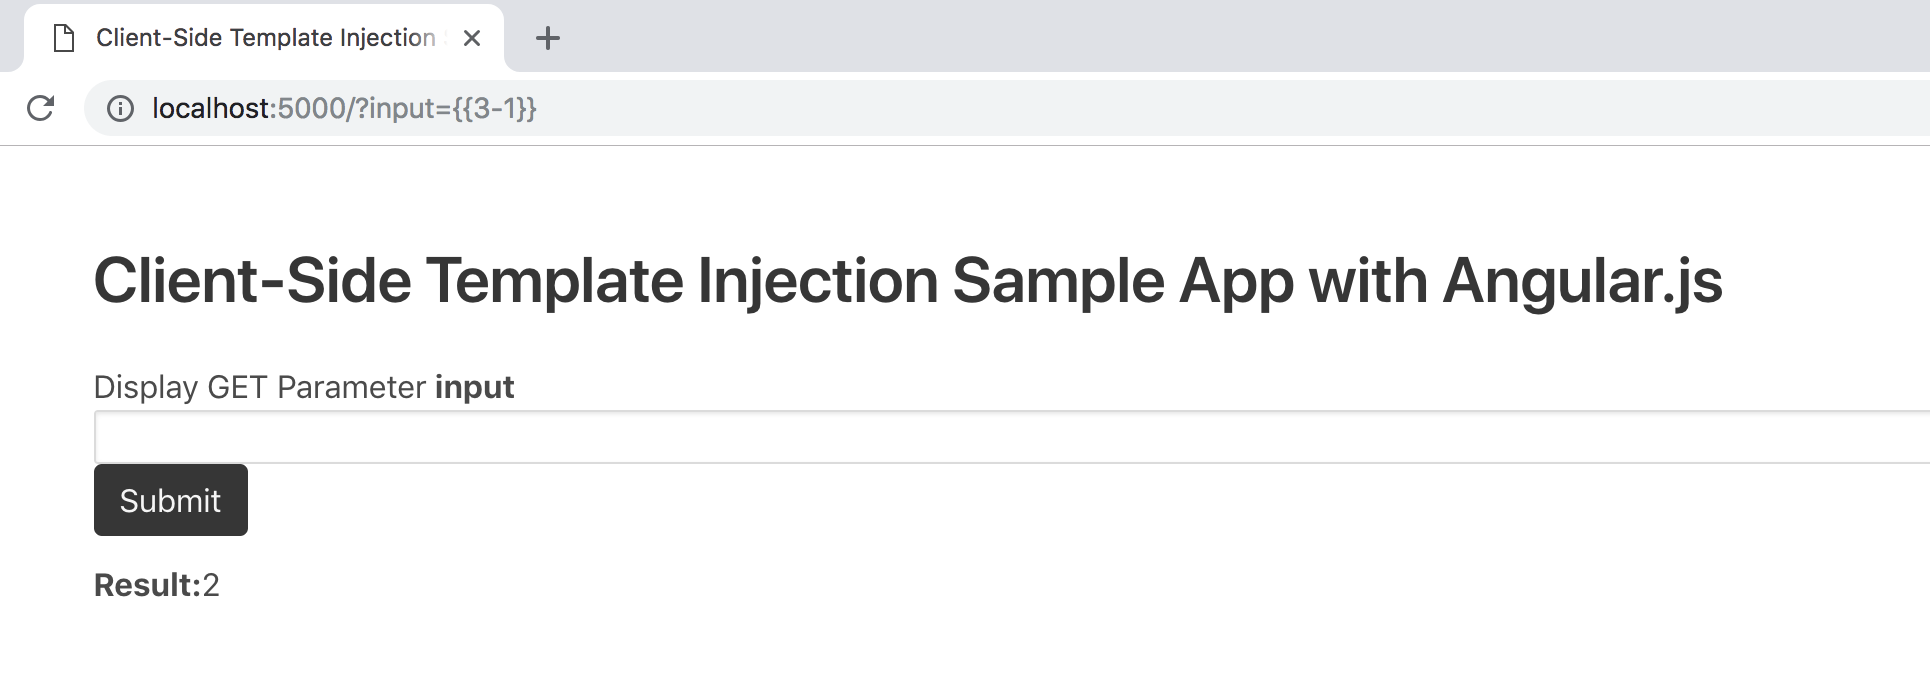
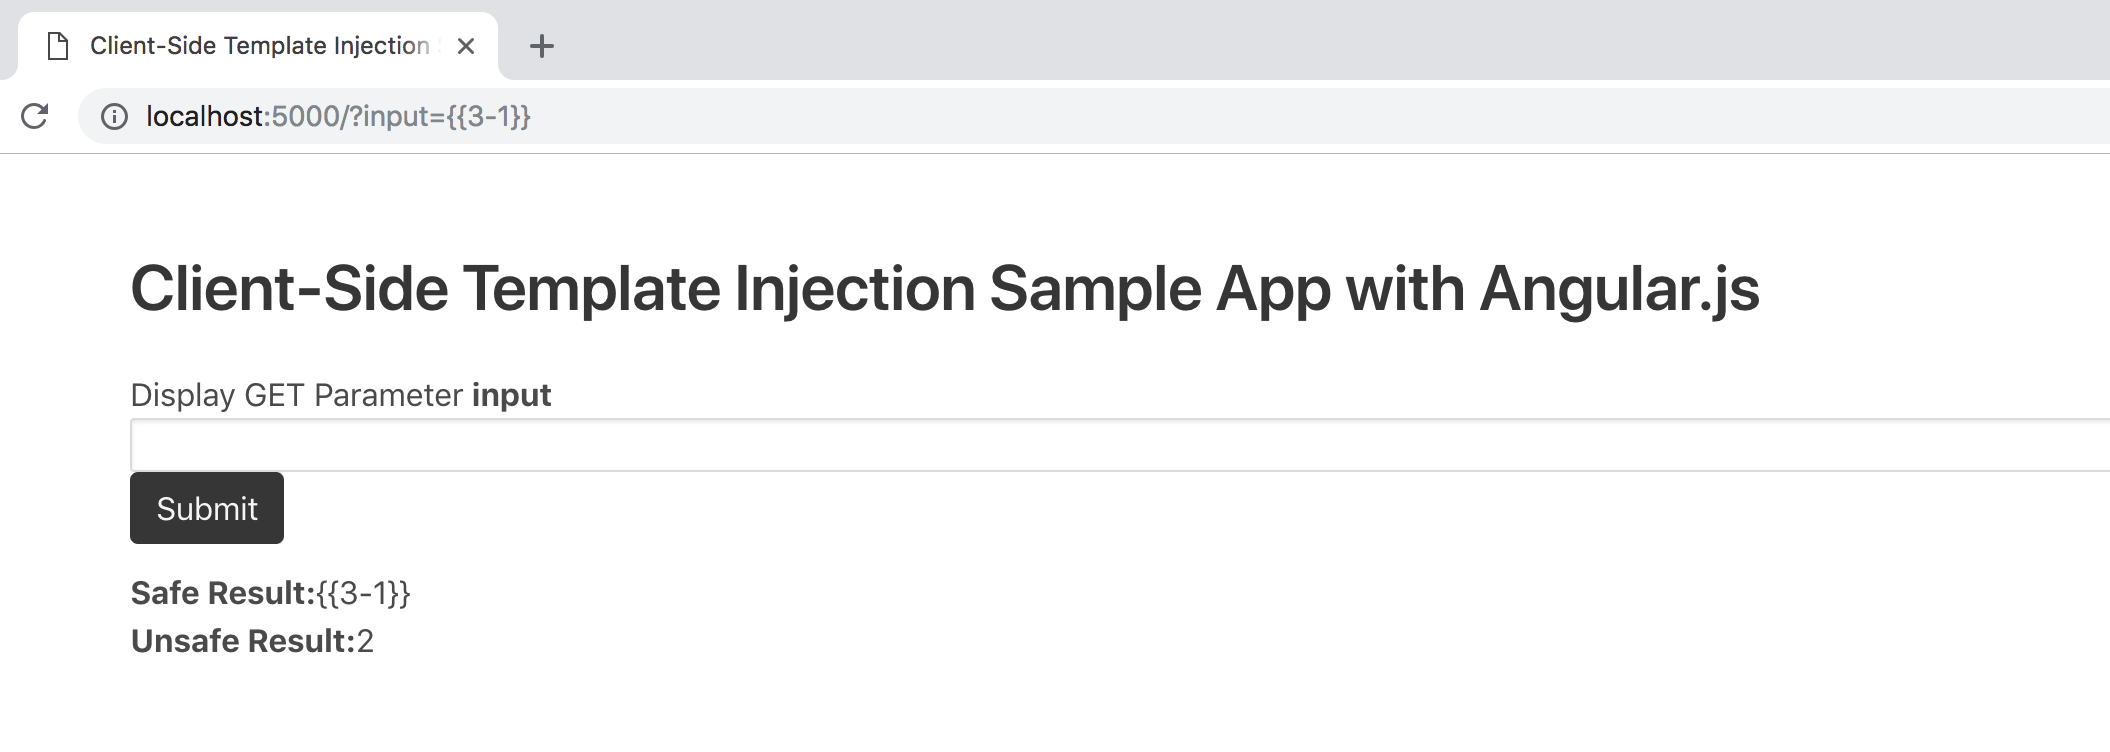
add safe field

Changed region(s): [[0.0311, 0.3338, 0.9016, 0.4552], [0.0311, 0.4855, 0.2798, 0.8801], [0.0, 0.0, 0.3109, 0.1821]]

diff --git a/README.md b/README.md
@@ -1,6 +1,11 @@
 # Client-Side Template Injection Sample App with Angular.js
+Client-side template injection vulnerabilities occur when web application using a client-side template framework dynamically embed user input. 
+This Sinatra app has a client-side template injection vulnerability with Angular.js. Let's attack it!
 
 ![img](./screenshots/screenshot.png)
+
+`{{constructor.constructor('alert(1)')()}}` fire `alert()`.
+
 ![img2](./screenshots/screenshot2.png)
 
 # How to use
